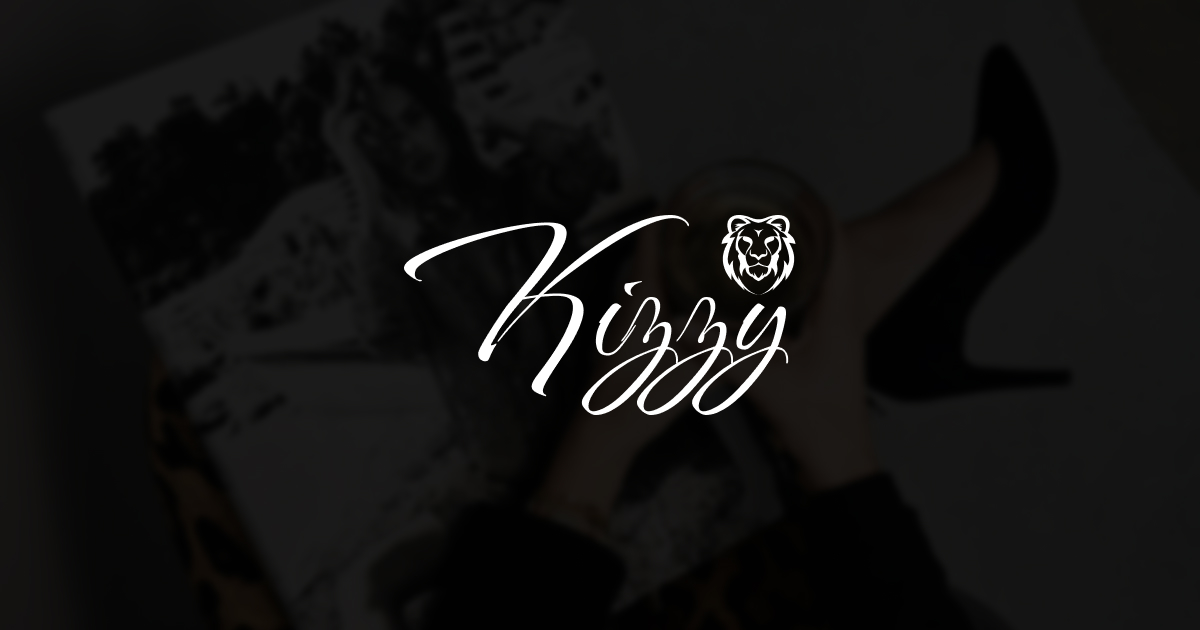
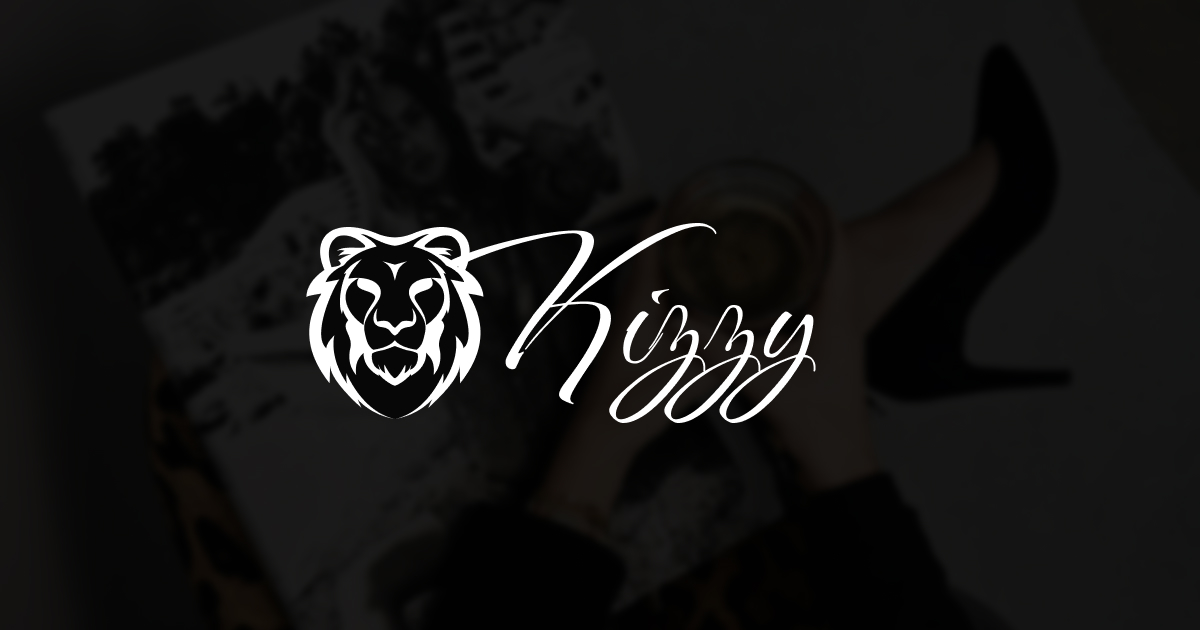
FEAT: CHANGE BACKGROUND AND FIX SIDE MENU

Changed region(s): [[0.2467, 0.3317, 0.6783, 0.6937]]

diff --git a/src/components/SideMenu.jsx b/src/components/SideMenu.jsx
@@ -14,9 +14,25 @@ const SideMenuSection = ({ onClose, isSideMenuOpen }) => {
   return (
     <div className="flex h-full flex-col">
       <div className="flex w-full px-4">
-        {/* <div className="heading flex w-full items-center justify-between border-b border-gray-700 py-4">
+        <div className="heading mb-24 flex w-full items-center justify-between border-b border-gray-700 py-4">
           <div className="flex items-center gap-2">
-            <h2 className="text-lg font-semibold">Menu</h2>
+            <h2 className="text-lg font-semibold">
+              <div className="logo">
+                <Link to="/">
+                  <svg
+                    viewBox="0 0 61 32"
+                    height={"48px"}
+                    fill="black"
+                    xmlns="http://www.w3.org/2000/svg"
+                  >
+                    <path
+                      d="M22.2406 28.5184C21.5443 28.2931 21.0118 28.0678 20.6432 27.8425C20.2745 27.6173 20.0902 27.3305 20.0902 26.9824C20.0902 26.5728 20.3974 25.9686 21.0118 25.1699C23.0188 22.5485 24.432 20.3878 25.2512 18.688C26.0908 16.9677 26.5107 15.6569 26.5107 14.7558C26.5107 14.039 26.3059 13.5577 25.8963 13.312C25.6505 13.1481 25.3536 13.0457 25.0054 13.0048C24.6777 12.9433 24.3193 12.9126 23.9302 12.9126C23.5411 12.9126 23.1417 12.9331 22.7321 12.9741C22.343 12.9945 21.9436 13.0253 21.534 13.0662C20.1619 14.295 18.9228 15.5033 17.8169 16.6912C16.7315 17.8585 15.7894 18.9542 14.9907 19.9782C14.9702 19.9987 14.919 20.0089 14.8371 20.0089C14.7552 20.0089 14.7347 19.9782 14.7756 19.9168C15.6358 18.7085 16.5881 17.5513 17.6326 16.4454C18.6976 15.319 19.742 14.2233 20.766 13.1584C20.3155 13.2198 19.9059 13.2813 19.5372 13.3427C19.1891 13.4041 18.9024 13.4553 18.6771 13.4963C17.182 15.1961 15.9328 16.8243 14.9292 18.3808C14.8678 18.4832 14.7244 18.7392 14.4992 19.1488C14.2739 19.5379 14.0281 19.968 13.7619 20.439V20.5005C13.7619 20.5619 13.7926 20.5926 13.854 20.5926C13.9564 20.5926 14.1408 20.5209 14.407 20.3776C14.4889 20.3366 14.5299 20.3161 14.5299 20.3161C14.5708 20.3161 14.5913 20.3469 14.5913 20.4083C14.5913 20.5312 14.5401 20.6438 14.4377 20.7462C14.2534 20.992 14.0691 21.3197 13.8848 21.7293C13.7004 22.1389 13.5264 22.5177 13.3625 22.8659C13.2601 23.0093 13.086 23.0809 12.8403 23.0809C12.5945 23.0809 12.3488 22.9888 12.103 22.8045C11.8777 22.6201 11.7651 22.3027 11.7651 21.8521C11.7651 21.6678 11.888 21.3299 12.1337 20.8384C12.4 20.3469 12.7379 19.7632 13.1475 19.0873C13.5571 18.4115 14.0076 17.7049 14.4992 16.9677C14.9907 16.2099 15.4822 15.4829 15.9737 14.7865C16.1376 14.5408 16.4345 14.1619 16.8646 13.6499C17.3152 13.1174 17.8272 12.4928 18.4006 11.776C18.9945 11.0592 19.5884 10.3014 20.1824 9.50271C20.7968 8.68351 21.3702 7.87455 21.9027 7.07583C22.4352 6.27711 22.8652 5.52959 23.1929 4.83327C23.5206 4.13695 23.6844 3.55327 23.6844 3.08223C23.6844 2.32447 23.2236 1.94559 22.302 1.94559C21.5852 1.94559 20.6841 2.03775 19.5987 2.22207C18.5132 2.40639 17.3152 2.66239 16.0044 2.99007C14.6937 3.29727 13.3625 3.66591 12.0108 4.09599C10.6592 4.50559 9.35868 4.95615 8.1094 5.44767C6.86012 5.91871 5.73372 6.41023 4.7302 6.92223C3.74716 7.41375 2.97916 7.90527 2.4262 8.39679C2.07804 8.70399 1.90396 9.09311 1.90396 9.56415C1.90396 9.78943 1.97564 9.99423 2.119 10.1785C2.26236 10.3424 2.50812 10.4243 2.85628 10.4243C2.95868 10.4653 3.00988 10.5062 3.00988 10.5472C3.00988 10.5677 2.96892 10.5984 2.887 10.6393C2.80508 10.6598 2.71292 10.6598 2.61052 10.6393C2.44668 10.5984 2.1702 10.4653 1.78108 10.24C1.39196 10.0147 1.03356 9.74847 0.705875 9.44127C0.378195 9.11359 0.214355 8.82687 0.214355 8.58111C0.214355 8.13055 0.603475 7.64927 1.38172 7.13727C2.18044 6.62527 3.23516 6.10303 4.54588 5.57055C5.8566 5.03807 7.31068 4.53631 8.90812 4.06527C10.526 3.57375 12.1747 3.14367 13.854 2.77503C15.5334 2.38591 17.1206 2.07871 18.6156 1.85343C20.1312 1.62815 21.4316 1.51551 22.5171 1.51551C23.3568 1.51551 23.9916 1.58719 24.4217 1.73055C25.159 1.97631 25.5276 2.45759 25.5276 3.17439C25.5276 3.72735 25.3433 4.38271 24.9747 5.14047C24.6265 5.87775 24.1657 6.64575 23.5923 7.44447C23.0393 8.24319 22.4556 9.02143 21.8412 9.77919C21.2268 10.5369 20.6636 11.2128 20.1516 11.8067C19.6396 12.3801 19.2505 12.8102 18.9843 13.0969C19.4348 13.015 19.8342 12.9536 20.1824 12.9126C20.551 12.8512 20.8582 12.8 21.104 12.759C22.6809 11.1616 24.3398 9.62559 26.0806 8.15103C27.8419 6.67647 29.6236 5.35551 31.4259 4.18815C33.2281 3.00031 34.9996 2.06847 36.7404 1.39263C38.5017 0.696305 40.1606 0.348145 41.7171 0.348145C42.3724 0.348145 42.9459 0.481265 43.4374 0.747505C43.9494 1.01375 44.2976 1.31071 44.4819 1.63839C44.5843 1.78175 44.6048 1.91487 44.5433 2.03775C44.5024 2.14015 44.4409 2.11967 44.359 1.97631C44.1542 1.56671 43.8572 1.27999 43.4681 1.11615C43.079 0.931825 42.6284 0.839665 42.1164 0.839665C41.2153 0.839665 40.1504 1.07519 38.9216 1.54623C37.7132 2.01727 36.423 2.63167 35.0508 3.38943C33.6992 4.14719 32.3372 4.98687 30.9651 5.90847C29.5929 6.80959 28.3027 7.71071 27.0944 8.61183C25.886 9.49247 24.8211 10.2912 23.8995 11.008C22.9984 11.7248 22.3328 12.2777 21.9027 12.6669C22.2918 12.6259 22.6604 12.5952 23.0086 12.5747C23.3772 12.5542 23.7254 12.544 24.0531 12.544C25.2614 12.544 26.2444 12.7283 27.0022 13.0969C27.7804 13.4656 28.1696 14.1619 28.1696 15.1859C28.1696 15.8208 27.9852 16.599 27.6166 17.5206C27.2684 18.4422 26.695 19.5481 25.8963 20.8384C25.6915 21.1865 25.3638 21.6781 24.9132 22.3129C24.4627 22.9683 24.0121 23.6441 23.5616 24.3405C23.111 25.0163 22.7116 25.6614 22.3635 26.2758C22.0153 26.8902 21.8412 27.3408 21.8412 27.6275C21.8412 27.9757 21.9948 28.2009 22.302 28.3033C22.343 28.3238 22.3532 28.3648 22.3328 28.4262C22.3328 28.5081 22.302 28.5389 22.2406 28.5184ZM35.5527 12.8819C35.2455 12.759 34.9792 12.5645 34.7539 12.2982C34.5491 12.0115 34.4775 11.7043 34.5389 11.3766C34.5799 11.1923 34.6311 11.0797 34.6925 11.0387C34.7744 10.9773 34.9895 10.9363 35.3376 10.9158L36.9658 10.6393C37.1501 10.5984 37.2423 10.5984 37.2423 10.6393C37.2423 10.7213 37.1706 10.7827 37.0272 10.8237C36.6995 10.9056 36.4128 11.0285 36.1671 11.1923C35.9213 11.3561 35.7165 11.5814 35.5527 11.8681C35.5117 11.9296 35.4912 12.0217 35.4912 12.1446C35.4912 12.2675 35.5117 12.3904 35.5527 12.5133C35.6141 12.6157 35.6755 12.7078 35.737 12.7897C35.7984 12.8717 35.7984 12.9126 35.737 12.9126C35.696 12.9126 35.6346 12.9024 35.5527 12.8819ZM31.9584 22.1901C31.2621 22.1901 30.7706 21.975 30.4839 21.5449C30.2176 21.0944 30.0845 20.5619 30.0845 19.9475C30.0845 19.4765 30.1459 18.9952 30.2688 18.5037C30.4122 18.0121 30.5863 17.5718 30.7911 17.1827C30.6067 17.1008 30.5453 17.0291 30.6067 16.9677C30.7501 16.7629 30.9242 16.5069 31.129 16.1997C31.3543 15.8925 31.5795 15.5853 31.8048 15.2781C32.0711 14.9299 32.3066 14.6432 32.5114 14.4179C32.7367 14.1926 32.9722 14.08 33.2179 14.08C33.3818 14.08 33.5251 14.1312 33.648 14.2336C33.7914 14.336 33.9347 14.4384 34.0781 14.5408C33.6071 15.0323 33.136 15.6365 32.665 16.3533C32.1939 17.0701 31.8048 17.8278 31.4976 18.6265C31.2109 19.4048 31.0675 20.1728 31.0675 20.9305C31.0675 21.2582 31.1392 21.4937 31.2826 21.6371C31.4464 21.76 31.641 21.8214 31.8663 21.8214C32.3373 21.8214 32.7571 21.6576 33.1258 21.3299C33.5149 20.9817 33.9655 20.48 34.4775 19.8246C35.0099 19.1488 35.5117 18.4422 35.9827 17.7049C36.1056 17.5411 36.1978 17.4489 36.2592 17.4285C36.3411 17.408 36.3514 17.4489 36.2899 17.5513C36.1261 17.879 35.8701 18.2989 35.5219 18.8109C35.1943 19.3024 34.8461 19.7939 34.4775 20.2854C34.1088 20.7769 33.7914 21.1558 33.5251 21.4221C33.2589 21.6883 32.9824 21.8829 32.6957 22.0057C32.4295 22.1286 32.1837 22.1901 31.9584 22.1901ZM30.0492 31.4368C29.7625 31.4368 29.4553 31.3344 29.1276 31.1296C28.7795 30.9248 28.4928 30.6688 28.2675 30.3616C28.0217 30.0749 27.8988 29.7779 27.8988 29.4707C27.8988 29.143 28.0832 28.7334 28.4518 28.2419C28.8204 27.7504 29.271 27.2486 29.8035 26.7366C30.336 26.2246 30.8684 25.7536 31.4009 25.3235C31.9129 24.8934 32.3225 24.5657 32.6297 24.3405C33.2646 23.9104 33.8483 23.5417 34.3808 23.2345C34.9337 22.9273 35.4764 22.6406 36.0089 22.3744C36.5414 22.1286 37.1968 21.8521 37.975 21.5449C38.7532 21.2173 39.4598 20.951 40.0947 20.7462C40.238 20.5209 40.3814 20.1728 40.5248 19.7017C40.6886 19.2307 40.7808 18.8518 40.8012 18.5651C40.8217 18.5037 40.832 18.4422 40.832 18.3808C40.832 18.3193 40.832 18.2681 40.832 18.2272C40.832 17.9405 40.7603 17.7664 40.6169 17.7049C40.494 17.6435 40.3609 17.6128 40.2176 17.6128C40.0332 17.6128 39.7568 17.7459 39.3881 18.0121C39.04 18.2784 38.7123 18.5856 38.4051 18.9337C38.4051 19.0976 38.3948 19.2307 38.3744 19.3331C38.3539 19.4355 38.3334 19.5379 38.3129 19.6403C38.272 19.8451 38.19 19.9987 38.0672 20.1011C37.9443 20.2035 37.8316 20.2547 37.7292 20.2547C37.504 20.2547 37.3913 20.1216 37.3913 19.8553C37.3913 19.7529 37.4425 19.5789 37.5449 19.3331C37.6268 19.1693 37.7804 18.9133 38.0057 18.5651C38.231 18.2169 38.3846 17.9712 38.4665 17.8278C38.7532 17.3568 38.9683 16.855 39.1116 16.3225C39.2755 15.7901 39.3574 15.2985 39.3574 14.848C39.3574 14.4998 39.296 14.1721 39.1731 13.8649C39.0502 13.5373 38.7942 13.4246 38.4051 13.527C38.2208 13.568 37.9955 13.783 37.7292 14.1721C37.4835 14.5613 37.207 15.0323 36.8998 15.5853C36.6131 16.1177 36.3161 16.6605 36.0089 17.2134C35.6812 17.7869 35.374 18.3091 35.0873 18.7801C34.8006 19.2307 34.5446 19.5789 34.3193 19.8246C34.1964 19.9475 34.1248 20.0089 34.1043 20.0089C34.0633 20.0089 34.0428 19.9782 34.0428 19.9168C34.0633 19.8349 34.094 19.7632 34.135 19.7017C34.606 19.1488 35.0464 18.4627 35.456 17.6435C35.8656 16.8243 36.2342 16.0973 36.5619 15.4624C36.951 14.6841 37.2889 14.1005 37.5756 13.7113C37.8624 13.3017 38.231 13.0969 38.6816 13.0969C39.214 13.0969 39.5827 13.2301 39.7875 13.4963C39.9923 13.7625 40.0947 14.1005 40.0947 14.5101C40.0947 14.9606 39.982 15.4521 39.7568 15.9846C39.552 16.5171 39.3267 16.9574 39.0809 17.3056C38.8966 17.5513 38.7225 17.8483 38.5587 18.1965C38.3948 18.5446 38.3129 18.7187 38.3129 18.7187C38.8659 18.0838 39.3369 17.6333 39.726 17.367C40.1356 17.1008 40.5043 16.9677 40.832 16.9677C40.9958 16.9677 41.1801 17.0189 41.3849 17.1213C41.5488 17.2032 41.6614 17.3465 41.7228 17.5513C41.8048 17.7561 41.8457 17.9814 41.8457 18.2272C41.8457 18.4934 41.815 18.7801 41.7536 19.0873C41.7126 19.3741 41.6512 19.6301 41.5692 19.8553C41.5078 20.1011 41.4361 20.3161 41.3542 20.5005C41.2928 20.6643 41.2416 20.7769 41.2006 20.8384C41.7536 20.9203 42.1632 21.1456 42.4294 21.5142C42.7161 21.8624 42.8595 22.272 42.8595 22.743C42.8595 22.8249 42.8595 22.9069 42.8595 22.9888C42.8595 23.0707 42.8492 23.1526 42.8288 23.2345C42.8083 23.3779 42.7468 23.4393 42.6444 23.4189C42.5625 23.4189 42.5318 23.3574 42.5523 23.2345C42.5932 22.7021 42.5216 22.231 42.3372 21.8214C42.1529 21.4323 41.7126 21.2377 41.0163 21.2377C40.6476 21.9545 40.1561 22.7635 39.5417 23.6646C38.9478 24.5657 38.2617 25.4669 37.4835 26.368C36.7257 27.2896 35.9168 28.1293 35.0566 28.887C34.2169 29.6653 33.367 30.2797 32.5068 30.7302C31.6467 31.2013 30.8275 31.4368 30.0492 31.4368ZM29.7113 30.8531C30.2028 30.8531 30.8684 30.6176 31.7081 30.1465C32.302 29.8189 32.9369 29.3581 33.6128 28.7641C34.2886 28.1702 34.9542 27.5046 35.6096 26.7673C36.2854 26.0505 36.91 25.3337 37.4835 24.6169C38.0774 23.9001 38.5792 23.2345 38.9888 22.6201C39.3984 22.0262 39.6851 21.5654 39.8489 21.2377C39.296 21.3606 38.6099 21.5961 37.7907 21.9443C36.9715 22.2925 36.1011 22.7328 35.1795 23.2653C34.2784 23.8182 33.3977 24.4326 32.5376 25.1085C31.6774 25.7843 30.9196 26.5011 30.2643 27.2589C29.8956 27.7094 29.5884 28.1805 29.3427 28.672C29.0764 29.184 28.9433 29.6345 28.9433 30.0237C28.9433 30.5766 29.1993 30.8531 29.7113 30.8531ZM38.6292 31.4368C38.3425 31.4368 38.0353 31.3344 37.7076 31.1296C37.3594 30.9248 37.0727 30.6688 36.8474 30.3616C36.6017 30.0749 36.4788 29.7779 36.4788 29.4707C36.4788 29.143 36.6631 28.7334 37.0318 28.2419C37.4004 27.7504 37.851 27.2486 38.3834 26.7366C38.9159 26.2246 39.4484 25.7536 39.9809 25.3235C40.4929 24.8934 40.9025 24.5657 41.2097 24.3405C41.8446 23.9104 42.4282 23.5417 42.9608 23.2345C43.5137 22.9273 44.0565 22.6406 44.5889 22.3744C45.1214 22.1286 45.7768 21.8521 46.555 21.5449C47.3333 21.2173 48.0398 20.951 48.6747 20.7462C48.8181 20.5209 48.9614 20.1728 49.1048 19.7017C49.2686 19.2307 49.3608 18.8518 49.3813 18.5651C49.4017 18.5037 49.412 18.4422 49.412 18.3808C49.412 18.3193 49.412 18.2681 49.412 18.2272C49.412 17.9405 49.3403 17.7664 49.1969 17.7049C49.0741 17.6435 48.9409 17.6128 48.7976 17.6128C48.6133 17.6128 48.3368 17.7459 47.9681 18.0121C47.62 18.2784 47.2923 18.5856 46.9851 18.9337C46.9851 19.0976 46.9749 19.2307 46.9544 19.3331C46.9339 19.4355 46.9134 19.5379 46.8929 19.6403C46.852 19.8451 46.7701 19.9987 46.6472 20.1011C46.5243 20.2035 46.4117 20.2547 46.3093 20.2547C46.084 20.2547 45.9713 20.1216 45.9713 19.8553C45.9713 19.7529 46.0225 19.5789 46.1249 19.3331C46.2069 19.1693 46.3605 18.9133 46.5857 18.5651C46.811 18.2169 46.9646 17.9712 47.0465 17.8278C47.3333 17.3568 47.5483 16.855 47.6917 16.3225C47.8555 15.7901 47.9374 15.2985 47.9374 14.848C47.9374 14.4998 47.876 14.1721 47.7531 13.8649C47.6302 13.5373 47.3742 13.4246 46.9851 13.527C46.8008 13.568 46.5755 13.783 46.3093 14.1721C46.0635 14.5613 45.787 15.0323 45.4798 15.5853C45.1931 16.1177 44.8961 16.6605 44.5889 17.2134C44.2613 17.7869 43.9541 18.3091 43.6673 18.7801C43.3806 19.2307 43.1246 19.5789 42.8993 19.8246C42.7765 19.9475 42.7048 20.0089 42.6843 20.0089C42.6433 20.0089 42.6229 19.9782 42.6229 19.9168C42.6433 19.8349 42.6741 19.7632 42.715 19.7017C43.1861 19.1488 43.6264 18.4627 44.036 17.6435C44.4456 16.8243 44.8142 16.0973 45.1419 15.4624C45.531 14.6841 45.8689 14.1005 46.1557 13.7113C46.4424 13.3017 46.811 13.0969 47.2616 13.0969C47.7941 13.0969 48.1627 13.2301 48.3675 13.4963C48.5723 13.7625 48.6747 14.1005 48.6747 14.5101C48.6747 14.9606 48.5621 15.4521 48.3368 15.9846C48.132 16.5171 47.9067 16.9574 47.6609 17.3056C47.4766 17.5513 47.3025 17.8483 47.1387 18.1965C46.9749 18.5446 46.8929 18.7187 46.8929 18.7187C47.4459 18.0838 47.9169 17.6333 48.3061 17.367C48.7157 17.1008 49.0843 16.9677 49.412 16.9677C49.5758 16.9677 49.7601 17.0189 49.9649 17.1213C50.1288 17.2032 50.2414 17.3465 50.3029 17.5513C50.3848 17.7561 50.4257 17.9814 50.4257 18.2272C50.4257 18.4934 50.395 18.7801 50.3336 19.0873C50.2926 19.3741 50.2312 19.6301 50.1493 19.8553C50.0878 20.1011 50.0161 20.3161 49.9342 20.5005C49.8728 20.6643 49.8216 20.7769 49.7806 20.8384C50.3336 20.9203 50.7432 21.1456 51.0094 21.5142C51.2961 21.8624 51.4395 22.272 51.4395 22.743C51.4395 22.8249 51.4395 22.9069 51.4395 22.9888C51.4395 23.0707 51.4293 23.1526 51.4088 23.2345C51.3883 23.3779 51.3269 23.4393 51.2245 23.4189C51.1425 23.4189 51.1118 23.3574 51.1323 23.2345C51.1733 22.7021 51.1016 22.231 50.9173 21.8214C50.7329 21.4323 50.2926 21.2377 49.5963 21.2377C49.2277 21.9545 48.7361 22.7635 48.1217 23.6646C47.5278 24.5657 46.8417 25.4669 46.0635 26.368C45.3057 27.2896 44.4968 28.1293 43.6366 28.887C42.7969 29.6653 41.947 30.2797 41.0868 30.7302C40.2266 31.2013 39.4074 31.4368 38.6292 31.4368ZM38.2913 30.8531C38.7828 30.8531 39.4484 30.6176 40.2881 30.1465C40.882 29.8189 41.5169 29.3581 42.1927 28.7641C42.8686 28.1702 43.5342 27.5046 44.1896 26.7673C44.8654 26.0505 45.4901 25.3337 46.0635 24.6169C46.6574 23.9001 47.1592 23.2345 47.5688 22.6201C47.9784 22.0262 48.2651 21.5654 48.4289 21.2377C47.876 21.3606 47.1899 21.5961 46.3707 21.9443C45.5515 22.2925 44.6811 22.7328 43.7595 23.2653C42.8584 23.8182 41.9777 24.4326 41.1175 25.1085C40.2574 25.7843 39.4996 26.5011 38.8442 27.2589C38.4756 27.7094 38.1684 28.1805 37.9226 28.672C37.6564 29.184 37.5233 29.6345 37.5233 30.0237C37.5233 30.5766 37.7793 30.8531 38.2913 30.8531ZM47.2092 31.4368C46.9225 31.4368 46.6153 31.3344 46.2876 31.1296C45.9395 30.9248 45.6528 30.6688 45.4275 30.3616C45.1817 30.0749 45.0588 29.7779 45.0588 29.4707C45.0588 29.143 45.2432 28.7334 45.6118 28.2419C45.9804 27.7504 46.431 27.2486 46.9635 26.7366C47.496 26.2246 48.0284 25.7536 48.5609 25.3235C49.0729 24.8934 49.4825 24.5657 49.7897 24.3405C50.4246 23.9104 51.0083 23.5417 51.5408 23.2345C52.0937 22.9273 52.6364 22.6406 53.1689 22.3744C53.7014 22.1286 54.3568 21.8521 55.135 21.5449C55.9132 21.2173 56.6198 20.951 57.2547 20.7462C57.4185 20.4595 57.5824 20.0601 57.7462 19.5481C57.91 19.0157 58.0534 18.4729 58.1763 17.92C58.2992 17.367 58.3606 16.9267 58.3606 16.599C58.3606 16.4966 58.3504 16.384 58.3299 16.2611C58.3094 16.1382 58.2582 16.0768 58.1763 16.0768C58.0944 16.0768 58.0022 16.128 57.8998 16.2304C57.654 16.4966 57.3366 16.9062 56.9475 17.4592C56.5584 17.9917 56.1385 18.5549 55.688 19.1488C55.2374 19.7222 54.7971 20.224 54.367 20.6541C53.9574 21.0637 53.5888 21.2685 53.2611 21.2685C52.8515 21.2685 52.534 21.1865 52.3088 21.0227C52.0835 20.8793 51.9708 20.6029 51.9708 20.1933C51.9708 19.8246 52.0425 19.4253 52.1859 18.9952C52.3292 18.5651 52.4931 18.1657 52.6774 17.7971C52.8617 17.4285 53.0051 17.1622 53.1075 16.9984C53.0051 17.0598 52.9539 17.0701 52.9539 17.0291C52.9744 16.9881 52.9948 16.9574 53.0153 16.9369C53.0358 16.855 53.087 16.7526 53.1689 16.6297C53.7014 15.8515 54.1622 15.2371 54.5513 14.7865C54.9609 14.336 55.2374 14.1107 55.3808 14.1107C55.5446 14.1107 55.6982 14.1721 55.8416 14.295C56.0054 14.3974 56.1897 14.5305 56.3945 14.6944C56.1692 14.8787 55.8518 15.2269 55.4422 15.7389C55.0326 16.2509 54.6128 16.8243 54.1827 17.4592C53.7731 18.0736 53.4352 18.6675 53.1689 19.2409C53.046 19.4867 52.9539 19.7017 52.8924 19.8861C52.8515 20.0704 52.831 20.2137 52.831 20.3161C52.831 20.5619 52.9334 20.6848 53.1382 20.6848C53.3225 20.6848 53.5478 20.6029 53.814 20.439C54.0803 20.2752 54.3363 20.0601 54.582 19.7939C55.3603 18.9952 56.0668 18.1555 56.7017 17.2749C57.3366 16.3942 57.951 15.5033 58.5449 14.6022C58.5859 14.6022 58.6268 14.6022 58.6678 14.6022C58.7292 14.5817 58.7804 14.5715 58.8214 14.5715C59.1081 14.5715 59.3334 14.6534 59.4972 14.8173C59.6201 14.9401 59.6816 15.1961 59.6816 15.5853C59.6816 15.9744 59.6201 16.4454 59.4972 16.9984C59.3948 17.5513 59.2617 18.1043 59.0979 18.6573C58.9545 19.1897 58.8112 19.6608 58.6678 20.0704C58.5244 20.48 58.422 20.736 58.3606 20.8384C58.9136 20.9203 59.3232 21.1456 59.5894 21.5142C59.8761 21.8624 60.0195 22.272 60.0195 22.743C60.0195 22.8249 60.0195 22.9069 60.0195 22.9888C60.0195 23.0707 60.0092 23.1526 59.9888 23.2345C59.9683 23.3779 59.9068 23.4393 59.8044 23.4189C59.7225 23.4189 59.6918 23.3574 59.7123 23.2345C59.7532 22.7021 59.6816 22.231 59.4972 21.8214C59.3129 21.4323 58.8726 21.2377 58.1763 21.2377C57.8076 21.9545 57.3161 22.7635 56.7017 23.6646C56.1078 24.5657 55.4217 25.4669 54.6435 26.368C53.8857 27.2896 53.0768 28.1293 52.2166 28.887C51.3769 29.6653 50.527 30.2797 49.6668 30.7302C48.8067 31.2013 47.9875 31.4368 47.2092 31.4368ZM46.8713 30.8531C47.3628 30.8531 48.0284 30.6176 48.8681 30.1465C49.462 29.8189 50.0969 29.3581 50.7728 28.7641C51.4486 28.1702 52.1142 27.5046 52.7696 26.7673C53.4454 26.0505 54.07 25.3337 54.6435 24.6169C55.2374 23.9001 55.7392 23.2345 56.1488 22.6201C56.5584 22.0262 56.8451 21.5654 57.0089 21.2377C56.456 21.3606 55.7699 21.5961 54.9507 21.9443C54.1315 22.2925 53.2611 22.7328 52.3395 23.2653C51.4384 23.8182 50.5577 24.4326 49.6976 25.1085C48.8374 25.7843 48.0796 26.5011 47.4243 27.2589C47.0556 27.7094 46.7484 28.1805 46.5027 28.672C46.2364 29.184 46.1033 29.6345 46.1033 30.0237C46.1033 30.5766 46.3593 30.8531 46.8713 30.8531Z"
+                      fill="black"
+                    />
+                  </svg>
+                </Link>
+              </div>
+            </h2>
           </div>
           <button
             onClick={onClose}
@@ -24,7 +40,7 @@ const SideMenuSection = ({ onClose, isSideMenuOpen }) => {
           >
             ✕
           </button>
-        </div> */}
+        </div>
       </div>
 
       <div className="cart-items flex flex-col items-start overflow-y-auto p-4">

diff --git a/src/pages/landingPage/SaveUpSection.jsx b/src/pages/landingPage/SaveUpSection.jsx
@@ -6,10 +6,10 @@ function SaveUp() {
       <div className="flex h-fit w-full flex-col items-center justify-center gap-7 border border-orange-900 px-5 py-10 text-orange-900 @md/save-up:flex-row md:flex-row md:px-8">
         <div className="flex h-fit w-full justify-center">
           <div className="box-1 flex w-fit flex-col gap-2">
-            <h3 className="" style={{ fontSize: "clamp(1rem, 2cqi, 1.5rem)" }}>
+            <h3 className="text-xl md:text-2xl">
               Save up to <br />
             </h3>
-            <h3 className="flex items-center gap-2">
+            <h3 className="flex w-fit items-center gap-2">
               <span className="text-9xl md:text-[10.875rem]">50</span>
               <span className="flex h-fit flex-col text-center">
                 <span className="text-4xl">%</span>

diff --git a/src/routes/Root.jsx b/src/routes/Root.jsx
@@ -80,7 +80,7 @@ const Root = () => {
       >
         {/* Collapsible side menu */}
         <aside
-          className={`absolute left-0 top-0 z-[100] h-full w-96 transform bg-white shadow-lg transition-transform duration-300 ease-in-out lg:hidden ${
+          className={`fixed left-0 top-0 z-[100] h-screen w-96 transform bg-white shadow-lg transition-transform duration-300 ease-in-out lg:hidden ${
             isSideMenuOpen ? "translate-x-0" : "-translate-x-full"
           }`}
         >
